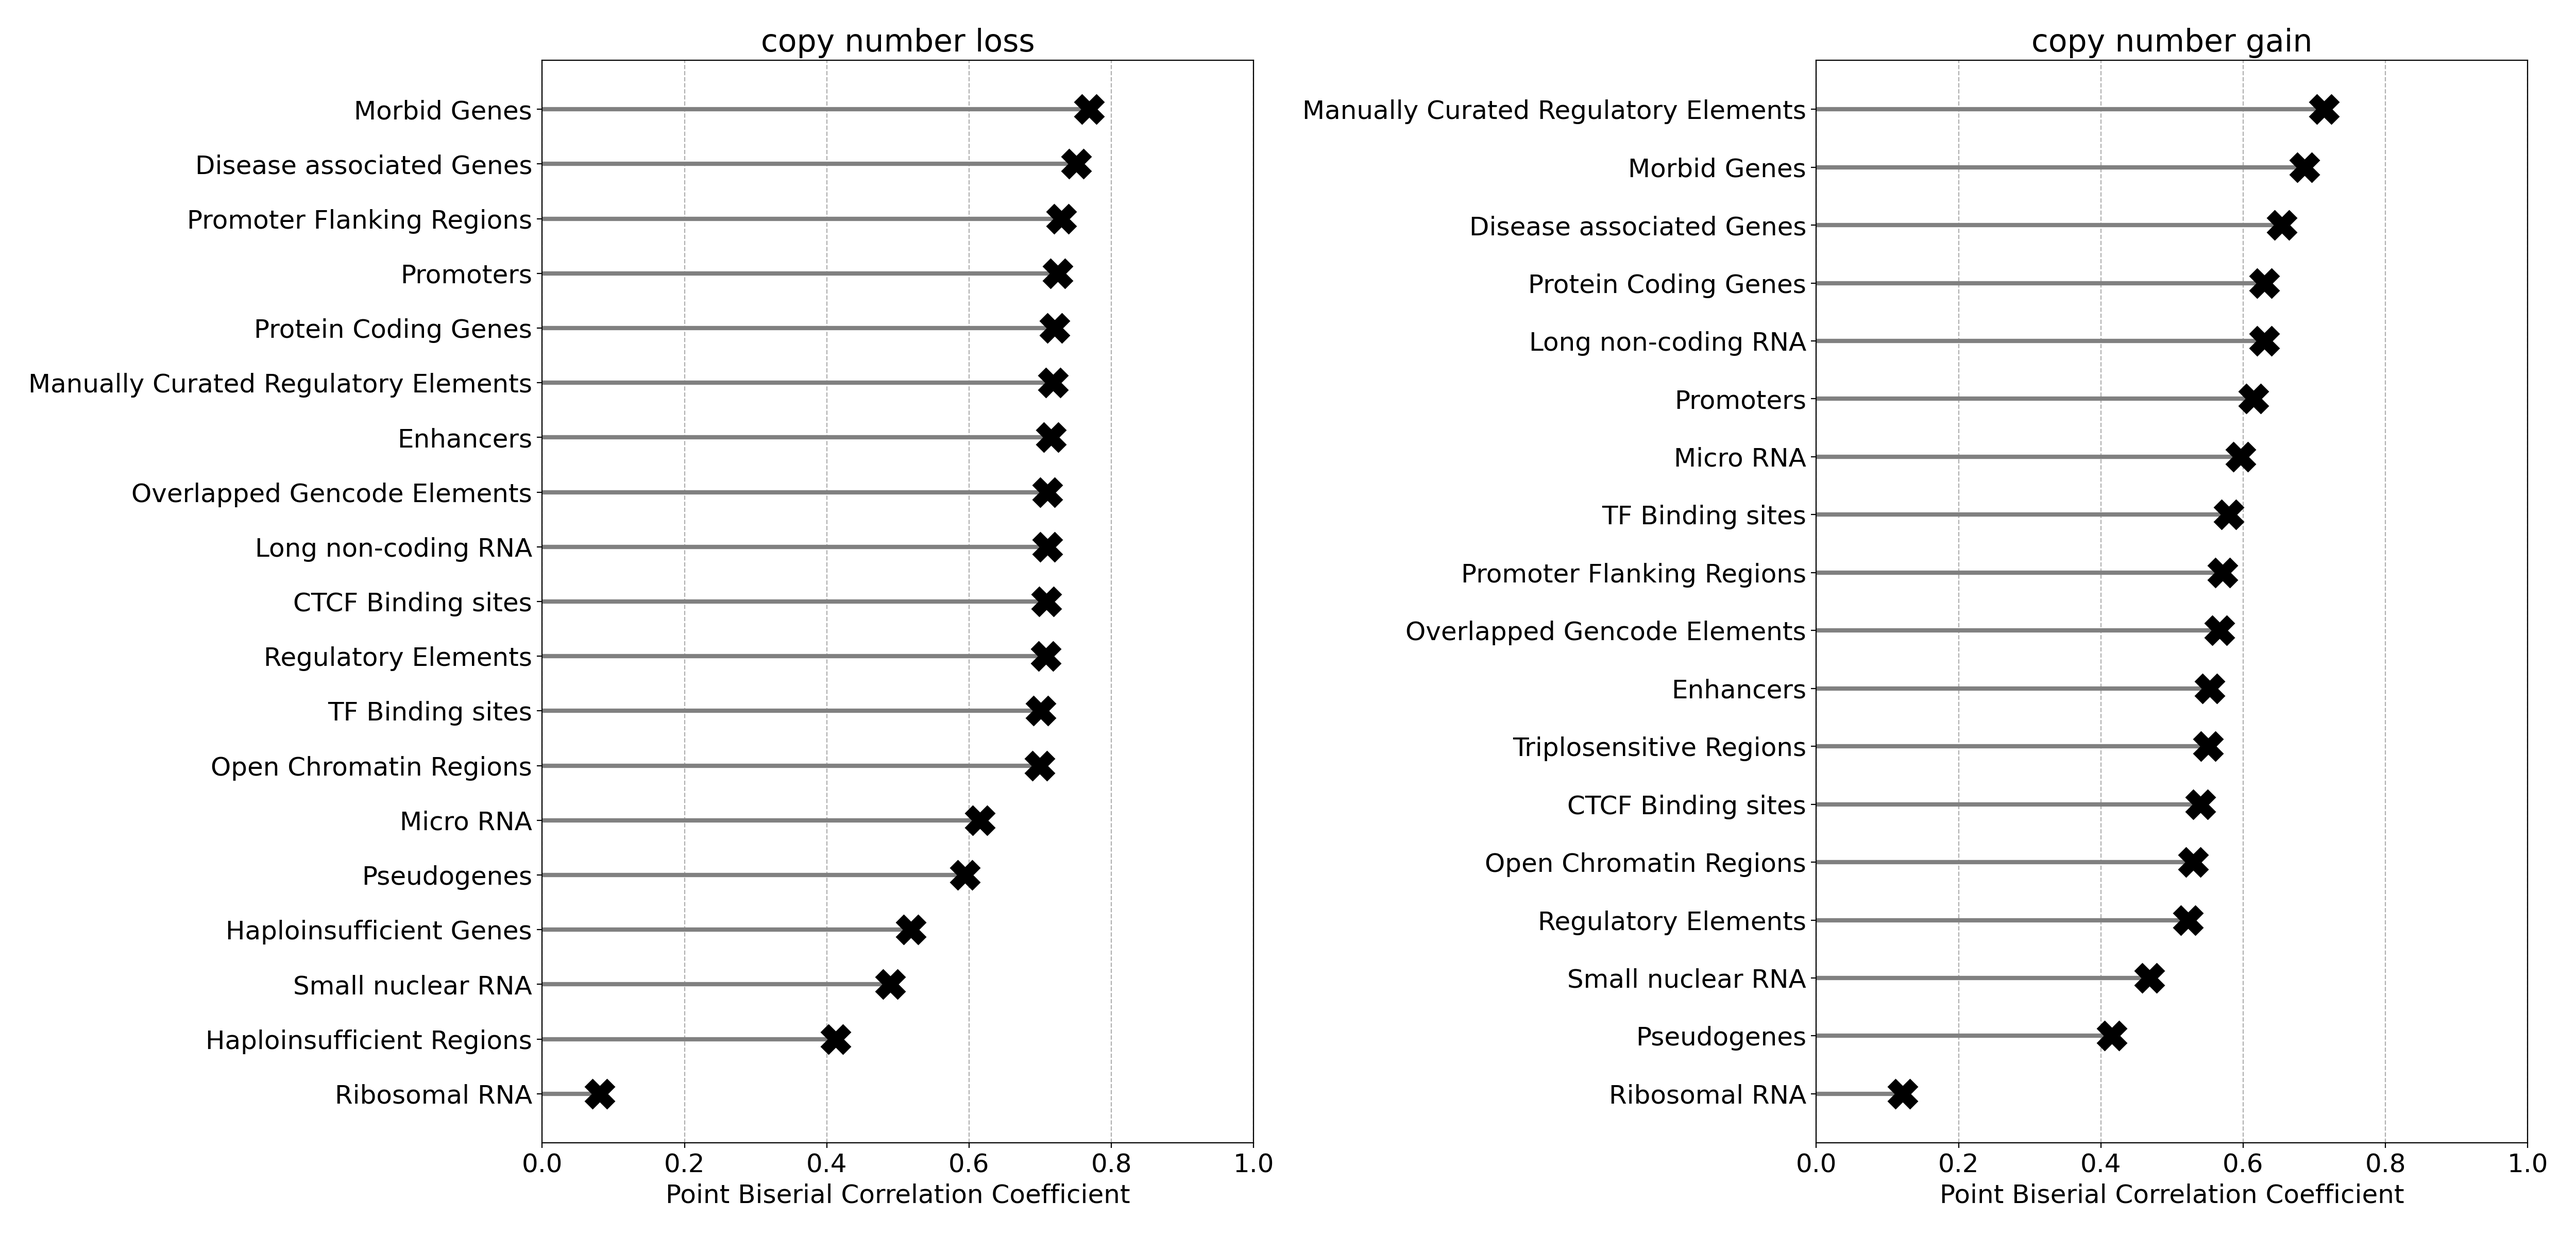
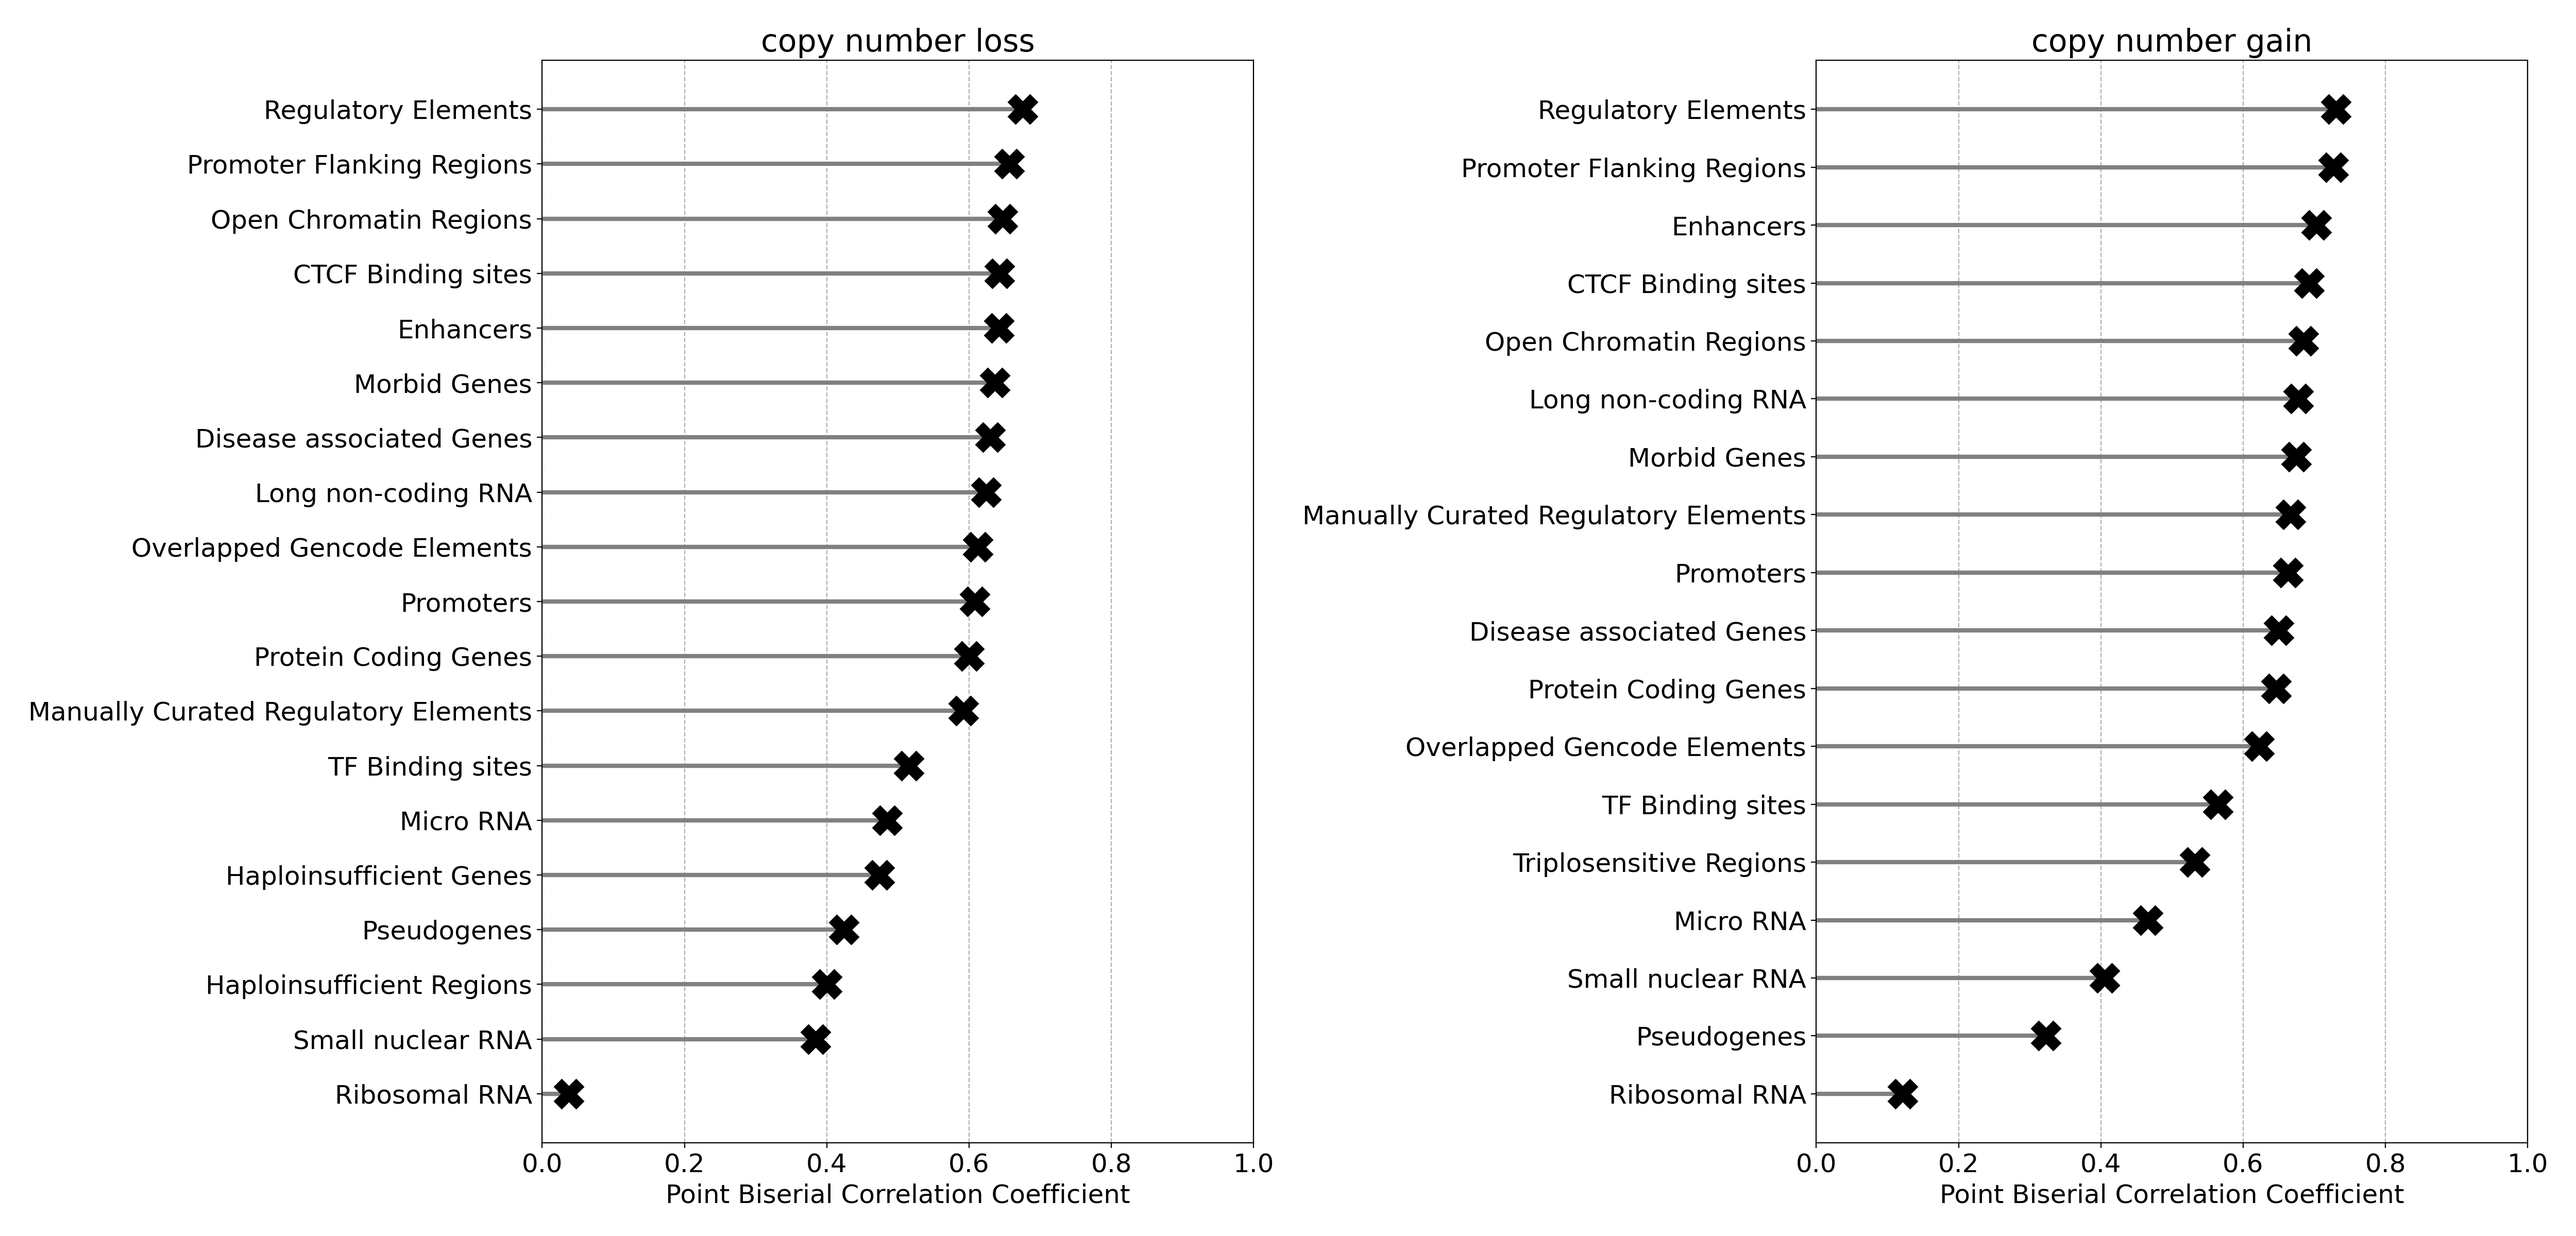
clinvar isv comparison; fixed pbcc plot

diff --git a/scripts/plots/results_data_overview.py b/scripts/plots/results_data_overview.py
@@ -61,7 +61,7 @@ for i, cnv_type in enumerate(['loss', 'gain']):
     # translate to human readable
     attributes = [HUMAN_READABLE[i] for i in attributes]
     
-    train_X, train_Y, val_X, val_Y = prepare_df(cnv_type, logtransform=True)
+    train_X, train_Y, val_X, val_Y = prepare_df(cnv_type, logtransform=False)
     
     X = pd.DataFrame(np.concatenate([train_X, val_X]), columns=attributes)
     X["y"] = ['Pathogenic' if i == 1 else "Benign" for i in np.concatenate([train_Y, val_Y])]
@@ -95,46 +95,46 @@ plt.savefig(snakemake.output.pbcc, dpi=DPI)
 # plt.savefig('plots/data_overview_pbcc.png')
 
 # %%
-from sklearn.preprocessing import MinMaxScaler
+# from sklearn.preprocessing import MinMaxScaler
 
 
-fig, ax = plt.subplots(1, 2, figsize=(25, 12))
+# fig, ax = plt.subplots(1, 2, figsize=(25, 12))
 
-for i, cnv_type in enumerate(['loss', 'gain']):
-    attributes = [LOSS_ATTRIBUTES, GAIN_ATTRIBUTES][(cnv_type == 'gain') * 1]
-    # translate to human readable
-    hr_attributes = [HUMAN_READABLE[i] for i in attributes]
+# for i, cnv_type in enumerate(['loss', 'gain']):
+#     attributes = [LOSS_ATTRIBUTES, GAIN_ATTRIBUTES][(cnv_type == 'gain') * 1]
+#     # translate to human readable
+#     hr_attributes = [HUMAN_READABLE[i] for i in attributes]
     
-    train_X = pd.read_csv(f"data/train_{cnv_type}.tsv.gz", sep='\t', compression='gzip', usecols=attributes + ["clinsig", "length"])
-    train_X.columns = ["y", "length"] + hr_attributes
-    val_X = pd.read_csv(f"data/validation_{cnv_type}.tsv.gz", sep='\t', compression='gzip', usecols=attributes + ["clinsig", "length"])
-    val_X.columns = ["y", "length"] + hr_attributes
+#     train_X = pd.read_csv(f"data/train_{cnv_type}.tsv.gz", sep='\t', compression='gzip', usecols=attributes + ["clinsig", "length"])
+#     train_X.columns = ["y", "length"] + hr_attributes
+#     val_X = pd.read_csv(f"data/validation_{cnv_type}.tsv.gz", sep='\t', compression='gzip', usecols=attributes + ["clinsig", "length"])
+#     val_X.columns = ["y", "length"] + hr_attributes
     
-    X = pd.concat([train_X, val_X])
+#     X = pd.concat([train_X, val_X])
     
-    # LENGTH CORRECTION - counts divided by length
-    X.iloc[:, 2:] = X.iloc[:, 2:].values / X.iloc[:, 1].values.reshape(-1, 1)
+#     # LENGTH CORRECTION - counts divided by length
+#     X.iloc[:, 2:] = X.iloc[:, 2:].values / X.iloc[:, 1].values.reshape(-1, 1)
     
-    pbcc = {"attribute": [], "value": [], "abs_value": []}
-    for a in X:
-        if a not in ["y", "length"]:
-            pbcc["attribute"].append(a)
-            val = pointbiserialr(X.loc[:, a], X.y).correlation
-            pbcc["value"].append(val)
-            pbcc["abs_value"].append(np.abs(val))
+#     pbcc = {"attribute": [], "value": [], "abs_value": []}
+#     for a in X:
+#         if a not in ["y", "length"]:
+#             pbcc["attribute"].append(a)
+#             val = pointbiserialr(X.loc[:, a], X.y).correlation
+#             pbcc["value"].append(val)
+#             pbcc["abs_value"].append(np.abs(val))
             
-    pbcc = pd.DataFrame(pbcc)
-    pbcc = pbcc.sort_values('abs_value', ascending=True)
+#     pbcc = pd.DataFrame(pbcc)
+#     pbcc = pbcc.sort_values('abs_value', ascending=True)
     
-    for k, v in enumerate(pbcc.value.values):
-        ax[i].plot([np.min([0, v]), np.max([0, v])], [k, k], color='grey', lw=3)
+#     for k, v in enumerate(pbcc.value.values):
+#         ax[i].plot([np.min([0, v]), np.max([0, v])], [k, k], color='grey', lw=3)
         
-    ax[i].plot(pbcc.value, pbcc.attribute, 'X', markersize=20, color='k')
+#     ax[i].plot(pbcc.value, pbcc.attribute, 'X', markersize=20, color='k')
         
-    ax[i].set_xlabel('Point Biserial Correlation Coefficient')
-    ax[i].set_ylabel('')
-    ax[i].set_title('copy number ' + cnv_type)
+#     ax[i].set_xlabel('Point Biserial Correlation Coefficient')
+#     ax[i].set_ylabel('')
+#     ax[i].set_title('copy number ' + cnv_type)
     
-    ax[i].xaxis.grid(linestyle='--')
+#     ax[i].xaxis.grid(linestyle='--')
 
-fig.tight_layout()
+# fig.tight_layout()

diff --git a/scripts/results/clinvar_isv_summary_table.py b/scripts/results/clinvar_isv_summary_table.py
@@ -1,0 +1,53 @@
+#!/usr/bin/env python3
+# -*- coding: utf-8 -*-
+
+# %%
+import sys
+import pathlib
+
+# add root path to sys path. Necessary if we want to keep doing package like imports
+
+filepath_list = str(pathlib.Path(__file__).parent.absolute()).split('/')
+ind = filepath_list.index('scripts')
+
+sys.path.insert(1, '/'.join(filepath_list[:ind]))
+
+# %%
+import numpy as np
+import pandas as pd
+from scripts.ml.predict import predict
+from sklearn.metrics import confusion_matrix
+
+THRESHOLD = 0.95
+
+# %%
+dataset = "test"
+
+res = []
+for cnv_type in ["loss", "gain"]:
+    preds, y = predict(f'results/ISV_{cnv_type}.json', f'data/{dataset}_{cnv_type}.tsv.gz',
+                       f'data/train_{cnv_type}.tsv.gz', proba=True)
+    
+    preds = np.array(["Pathogenic" if i >= THRESHOLD else "Benign" if i <= (1 - THRESHOLD) else "Uncertain significance" for i in preds])
+    y = np.array([["Benign", "Pathogenic"][i] for i in y])
+    
+    df = pd.DataFrame({"y": y, "yhat": preds})
+    
+    for c, clinvar in enumerate(["Benign", "Pathogenic"]):
+        temp = [cnv_type, clinvar]
+        for i, isv in enumerate(["Benign", "Pathogenic", "Uncertain significance"]):
+            temp.append(len(df.query(f"y == '{clinvar}' & yhat == '{isv}'")))
+            
+            
+        res.append(temp)
+    
+res = pd.DataFrame(res, columns=["cnv_type", "clinvar", "ISV-Benign", "ISV-Pathogenic", "ISV-Uncertain_significance"])
+
+
+# %%
+res.to_csv(snakemake.output.clinvar_isv_summary, index=False, sep='\t')
+
+# %%
+# Benign  US     Pathogenic
+# 3865    2902    13
+# 93      16687   2246 
